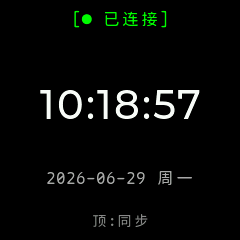
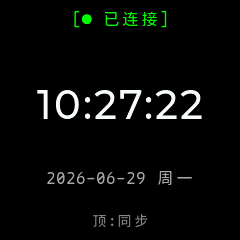
fix: 修复 buddy 截图状态匹配、GIF 尺寸和帧时长
- capture() 切到 buddy 屏后主动调用 ui_screen_buddy_update_state()
  让右上角状态文字与实际渲染状态一致（之前停在 init 默认 SLEEP，
  但 pixel 渲染 IDLE，造成不匹配）
- capture_buddy_gif 每帧只推进 1 个 buddy_tick（=200ms 设备时间），
  与设备实际动画节拍一致
- make_gif.py SCALE=1，输出原生 240x240（不再放大 2x）
- GIF 200ms/帧 = 设备 service_task 调用 buddy_tick 的实际间隔

Changed region(s): [[0.1458, 0.35, 0.8458, 0.4958]]

diff --git a/tools/simulator/main.c b/tools/simulator/main.c
@@ -33,6 +33,7 @@
 #include "ui/ui_manager.h"
 #include "ui/i18n.h"
 #include "ui/ui_screen_main.h"
+#include "ui/ui_screen_buddy.h"
 #include "buddy/buddy.h"
 #include "buddy/buddy_render.h"
 
@@ -177,7 +178,11 @@ static void capture(const char *fname, ui_screen_id_t sid, int settle_ms) {
     reset_framebuffer();
     ui_switch_screen(sid);
     sim_advance_ms(settle_ms);
-    /* force an extra redraw pass to ensure framebuffer fully populated */
+    /* Force a state refresh so the buddy screen's right-corner label matches
+     * the rendered buddy state (otherwise it stays at the init default). */
+    if (sid == UI_SCREEN_BUDDY) {
+        ui_screen_buddy_update_state();
+    }
     lv_obj_invalidate(lv_screen_active());
     sim_advance_ms(120);
     printf("  flush called %d times\n", s_flush_count);
@@ -189,24 +194,23 @@ static void capture(const char *fname, ui_screen_id_t sid, int settle_ms) {
 }
 
 /* Capture N frames of the buddy screen in CELEBRATE state for GIF assembly.
- * Each frame advances the animation by ~250ms (same as device's service_task). */
+ * Each frame advances buddy_tick once (= 200ms on device). GIF frame duration
+ * is set to match the device's actual animation cadence. */
 static void capture_buddy_gif(const char *dir, int frames) {
     printf("Capturing buddy CELEBRATE gif (%d frames)...\n", frames);
     sim_set_buddy_state(BUDDY_CELEBRATE);
     ui_switch_screen(UI_SCREEN_BUDDY);
     sim_advance_ms(400);
+    ui_screen_buddy_update_state();
     char path[256];
     for (int i = 0; i < frames; i++) {
-        /* advance animation: buddy_tick normally fires every 200ms */
+        /* One buddy_tick = one device animation step (200ms on real service_task). */
         buddy_tick();
-        buddy_tick();
-        buddy_tick();
-        buddy_tick();
-        buddy_tick();  /* ~1s of device time per frame */
+        ui_screen_buddy_update_state();
 
         reset_framebuffer();
         lv_obj_invalidate(lv_screen_active());
-        sim_advance_ms(80);
+        sim_advance_ms(50);
 
         snprintf(path, sizeof(path), "%s/gif_%03d.png", dir, i);
         if (!stbi_write_png(path, SCREEN_W, SCREEN_H, 3, s_framebuffer, SCREEN_W * 3)) {

diff --git a/tools/simulator/make_gif.py b/tools/simulator/make_gif.py
@@ -12,8 +12,8 @@ FRAMES_DIR = os.path.join(ROOT, "tools", "simulator", "output", "gif_frames")
 OUT_GIF = os.path.join(ROOT, "docs", "images", "buddy-celebrate.gif")
 
 FRAME_COUNT = 16
-DURATION_MS = 200
-SCALE = 2  # 240 -> 480 for clearer preview
+DURATION_MS = 200   # matches device buddy_tick cadence
+SCALE = 1           # keep native 240x240
 
 
 def main():
